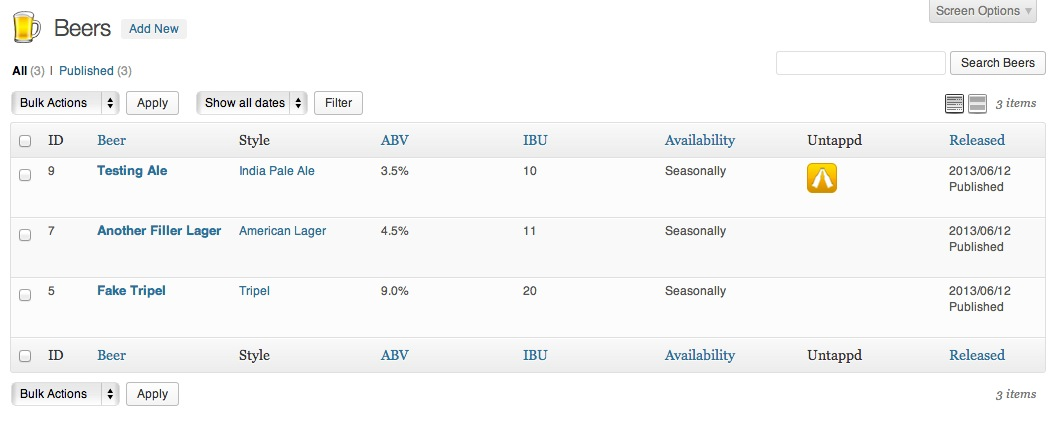
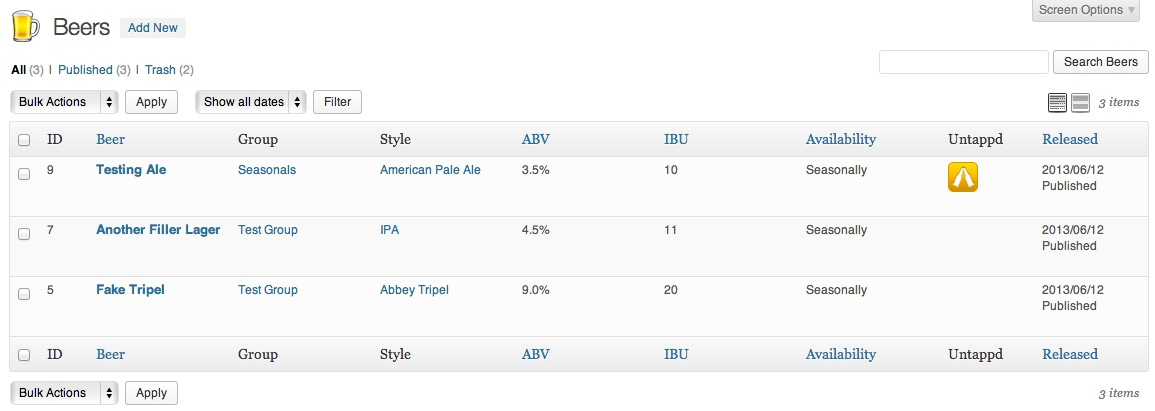
Updated Screenshots

diff --git a/README.md b/README.md
@@ -28,9 +28,11 @@ This plugin allows beer creators from home brewers to professional breweries to 
 1. [The "Beer" management screen](https://raw.github.com/ErinMorelli/em-beer-manager/master/screenshot-1.jpg)
 2. [Beer profile information](https://raw.github.com/ErinMorelli/em-beer-manager/master/screenshot-2.jpg)
 3. [Extra Beer information](https://raw.github.com/ErinMorelli/em-beer-manager/master/screenshot-3.jpg)
-4. [Special styles organization](https://raw.github.com/ErinMorelli/em-beer-manager/master/screenshot-4.jpg)
-5. [Single beer front-end display (with all options enabled)](https://raw.github.com/ErinMorelli/em-beer-manager/master/screenshot-5.jpg)
-6. [Beer List widget options](https://raw.github.com/ErinMorelli/em-beer-manager/master/screenshot-6.jpg)
+4. [Pre-populated styles taxonomy](https://raw.github.com/ErinMorelli/em-beer-manager/master/screenshot-4.jpg)
+5. [Special groups taxonomy](https://raw.github.com/ErinMorelli/em-beer-manager/master/screenshot-5.jpg)
+6. [Single beer front-end display (with all options enabled)](https://raw.github.com/ErinMorelli/em-beer-manager/master/screenshot-6.jpg)
+7. [Untappd check-in widget options & display](https://raw.github.com/ErinMorelli/em-beer-manager/master/screenshot-7.jpg)
+8. [Beer List widget options & display](https://raw.github.com/ErinMorelli/em-beer-manager/master/screenshot-8.jpg)
 
 
 *****
